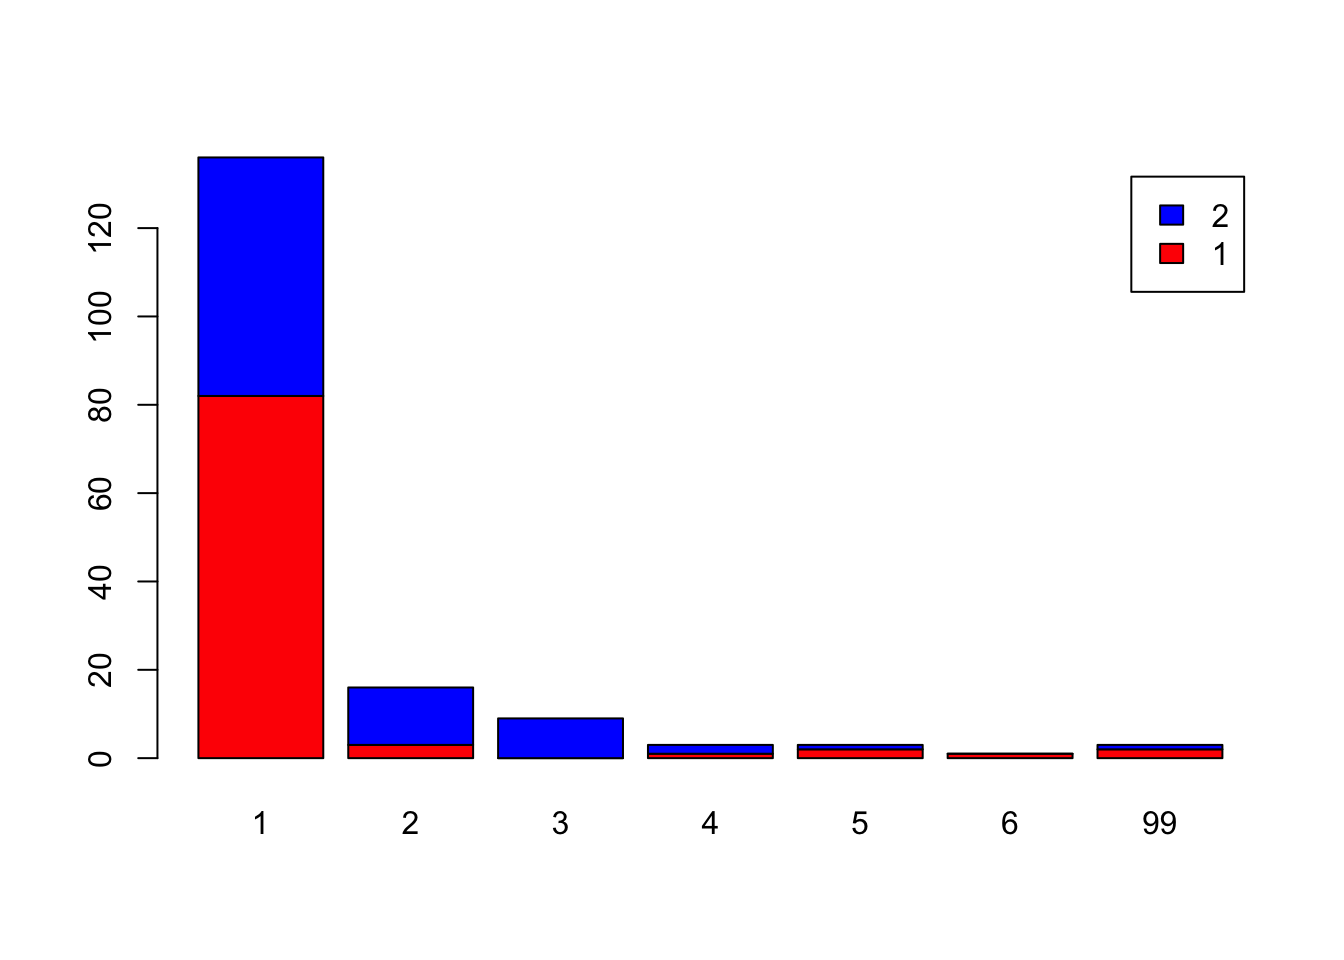
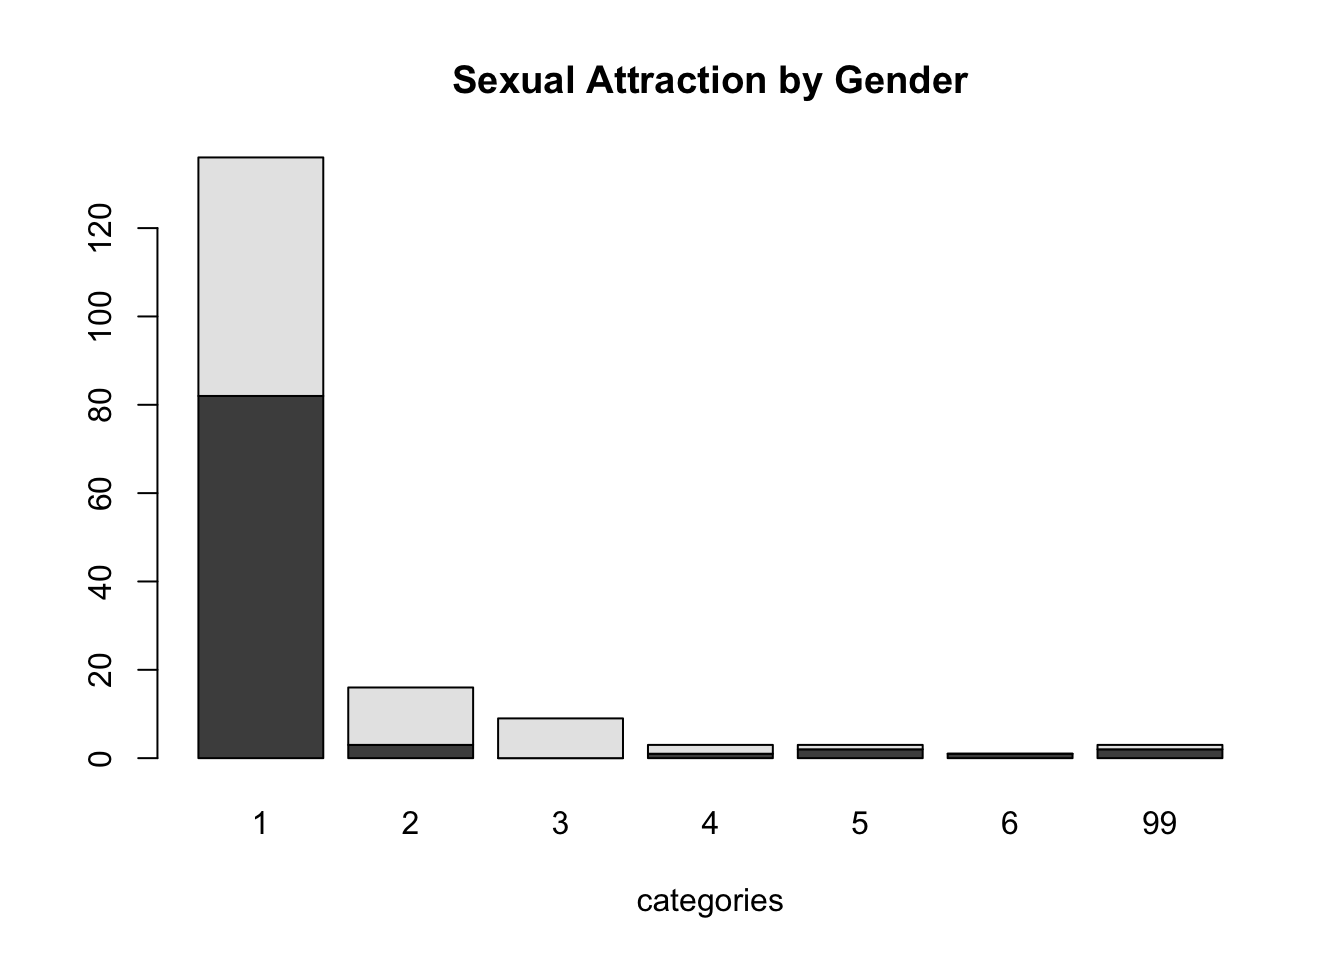
collaborators update

diff --git a/Assignments.html b/Assignments.html
@@ -344,7 +344,7 @@ div.tocify {
 
 <div id="assignment-1" class="section level1">
 <h1>Assignment 1</h1>
-<p><strong>Collaborators: Carolina Herrera Figueroa. </strong></p>
+<p><strong>Collaborators: Carolina Herrera Figueroa, Niko Amber</strong></p>
 <div id="problem-1" class="section level3">
 <h3>Problem 1</h3>
 <p>Install the datasets package on the console below and load the data</p>
@@ -470,7 +470,7 @@ barplot(USArrests$Rape, names.arg = state.names, las = 2, ylab = &quot;Arrest ra
 <p>What does the given code do? Explain what each line is doing.</p>
 <p>Answer: This code creates a heat map of murders in the US. That is, this is a map of the country with darker shades of blue signifying higher murder rates and lighter shades of blue portraying lower murder rates. The first line tells R that you will be making a heat map, arranging by state and filling with arrests for murder rates. The next line sets up the map itself separating by state and the final line expands the range</p>
 <p><span class="math display">\[\\[2in]\]</span> # Assignment 2</p>
-<p><strong>Collaborators: Carolina Herrera Figueroa. </strong></p>
+<p><strong>Collaborators: Carolina Herrera Figueroa, Niko Amber </strong></p>
 </div>
 <div id="problem-1-load-data" class="section level2">
 <h2>Problem 1: Load data</h2>
@@ -527,8 +527,10 @@ barplot(counts,main= &quot;Sexual Attraction&quot;, xlab=&quot;categories&quot;)
 <p>Answer: The distribution of sexual attraction is heavily weighted towards number 1 which indicated heterosexuality. I was not surprised by there being the greatest weight on heterosexuality, but I was slightly surprised quite how extreme the difference is.</p>
 <p>What is the distribution of sexual attraction by gender?</p>
 <pre class="r"><code>counts &lt;- table(dat$irsex, dat$sexatract)
-barplot(counts, col=c(&quot;red&quot;, &quot;blue&quot;), legend=TRUE)</code></pre>
+barplot(counts,main= &quot;Sexual Attraction by Gender&quot;, xlab=&quot;categories&quot;)</code></pre>
 <p><img src="Assignments_files/figure-html/unnamed-chunk-11-1.png" width="672" /></p>
+<pre class="r"><code>barplot(counts, col=c(&quot;red&quot;, &quot;blue&quot;), legend=TRUE)</code></pre>
+<p><img src="Assignments_files/figure-html/unnamed-chunk-11-2.png" width="672" /></p>
 <p>Answer: The distribution of sexual attraction by gender is intriguing to me because the first group (strongly heterosexual) appers mostly weighted towards males. The group showing bisexuality is heavily weighted towards females. The group identifying as homosexual is mostly male. The groups not knowing or leaving blank are all female and the group skipping the question is mostly male.</p>
 </div>
 <div id="problem-6-english-speaking" class="section level2">

diff --git a/docs/Assignments.html b/docs/Assignments.html
@@ -344,7 +344,7 @@ div.tocify {
 
 <div id="assignment-1" class="section level1">
 <h1>Assignment 1</h1>
-<p><strong>Collaborators: Carolina Herrera Figueroa. </strong></p>
+<p><strong>Collaborators: Carolina Herrera Figueroa, Niko Amber</strong></p>
 <div id="problem-1" class="section level3">
 <h3>Problem 1</h3>
 <p>Install the datasets package on the console below and load the data</p>
@@ -470,7 +470,7 @@ barplot(USArrests$Rape, names.arg = state.names, las = 2, ylab = &quot;Arrest ra
 <p>What does the given code do? Explain what each line is doing.</p>
 <p>Answer: This code creates a heat map of murders in the US. That is, this is a map of the country with darker shades of blue signifying higher murder rates and lighter shades of blue portraying lower murder rates. The first line tells R that you will be making a heat map, arranging by state and filling with arrests for murder rates. The next line sets up the map itself separating by state and the final line expands the range</p>
 <p><span class="math display">\[\\[2in]\]</span> # Assignment 2</p>
-<p><strong>Collaborators: Carolina Herrera Figueroa. </strong></p>
+<p><strong>Collaborators: Carolina Herrera Figueroa, Niko Amber </strong></p>
 </div>
 <div id="problem-1-load-data" class="section level2">
 <h2>Problem 1: Load data</h2>
@@ -527,8 +527,10 @@ barplot(counts,main= &quot;Sexual Attraction&quot;, xlab=&quot;categories&quot;)
 <p>Answer: The distribution of sexual attraction is heavily weighted towards number 1 which indicated heterosexuality. I was not surprised by there being the greatest weight on heterosexuality, but I was slightly surprised quite how extreme the difference is.</p>
 <p>What is the distribution of sexual attraction by gender?</p>
 <pre class="r"><code>counts &lt;- table(dat$irsex, dat$sexatract)
-barplot(counts, col=c(&quot;red&quot;, &quot;blue&quot;), legend=TRUE)</code></pre>
+barplot(counts,main= &quot;Sexual Attraction by Gender&quot;, xlab=&quot;categories&quot;)</code></pre>
 <p><img src="Assignments_files/figure-html/unnamed-chunk-11-1.png" width="672" /></p>
+<pre class="r"><code>barplot(counts, col=c(&quot;red&quot;, &quot;blue&quot;), legend=TRUE)</code></pre>
+<p><img src="Assignments_files/figure-html/unnamed-chunk-11-2.png" width="672" /></p>
 <p>Answer: The distribution of sexual attraction by gender is intriguing to me because the first group (strongly heterosexual) appers mostly weighted towards males. The group showing bisexuality is heavily weighted towards females. The group identifying as homosexual is mostly male. The groups not knowing or leaving blank are all female and the group skipping the question is mostly male.</p>
 </div>
 <div id="problem-6-english-speaking" class="section level2">

diff --git a/Assignments.tex b/Assignments.tex
@@ -113,7 +113,7 @@
 \hypertarget{assignment-1}{%
 \section{Assignment 1}\label{assignment-1}}
 
-\textbf{Collaborators: Carolina Herrera Figueroa. }
+\textbf{Collaborators: Carolina Herrera Figueroa, Niko Amber}
 
 \hypertarget{problem-1}{%
 \subsubsection{Problem 1}\label{problem-1}}
@@ -340,7 +340,7 @@ the map itself separating by state and the final line expands the range
 
 \[\\[2in]\] \# Assignment 2
 
-\textbf{Collaborators: Carolina Herrera Figueroa. }
+\textbf{Collaborators: Carolina Herrera Figueroa, Niko Amber }
 
 \hypertarget{problem-1-load-data}{%
 \subsection{Problem 1: Load data}\label{problem-1-load-data}}
@@ -499,11 +499,19 @@ What is the distribution of sexual attraction by gender?
 \begin{Shaded}
 \begin{Highlighting}[]
 \NormalTok{counts <-}\StringTok{ }\KeywordTok{table}\NormalTok{(dat}\OperatorTok{$}\NormalTok{irsex, dat}\OperatorTok{$}\NormalTok{sexatract)}
-\KeywordTok{barplot}\NormalTok{(counts, }\DataTypeTok{col=}\KeywordTok{c}\NormalTok{(}\StringTok{"red"}\NormalTok{, }\StringTok{"blue"}\NormalTok{), }\DataTypeTok{legend=}\OtherTok{TRUE}\NormalTok{)}
+\KeywordTok{barplot}\NormalTok{(counts,}\DataTypeTok{main=} \StringTok{"Sexual Attraction by Gender"}\NormalTok{, }\DataTypeTok{xlab=}\StringTok{"categories"}\NormalTok{)}
 \end{Highlighting}
 \end{Shaded}
 
 \includegraphics{Assignments_files/figure-latex/unnamed-chunk-11-1.pdf}
+
+\begin{Shaded}
+\begin{Highlighting}[]
+\KeywordTok{barplot}\NormalTok{(counts, }\DataTypeTok{col=}\KeywordTok{c}\NormalTok{(}\StringTok{"red"}\NormalTok{, }\StringTok{"blue"}\NormalTok{), }\DataTypeTok{legend=}\OtherTok{TRUE}\NormalTok{)}
+\end{Highlighting}
+\end{Shaded}
+
+\includegraphics{Assignments_files/figure-latex/unnamed-chunk-11-2.pdf}
 
 Answer: The distribution of sexual attraction by gender is intriguing to
 me because the first group (strongly heterosexual) appers mostly

diff --git a/docs/Assignments.tex b/docs/Assignments.tex
@@ -113,7 +113,7 @@
 \hypertarget{assignment-1}{%
 \section{Assignment 1}\label{assignment-1}}
 
-\textbf{Collaborators: Carolina Herrera Figueroa. }
+\textbf{Collaborators: Carolina Herrera Figueroa, Niko Amber}
 
 \hypertarget{problem-1}{%
 \subsubsection{Problem 1}\label{problem-1}}
@@ -340,7 +340,7 @@ the map itself separating by state and the final line expands the range
 
 \[\\[2in]\] \# Assignment 2
 
-\textbf{Collaborators: Carolina Herrera Figueroa. }
+\textbf{Collaborators: Carolina Herrera Figueroa, Niko Amber }
 
 \hypertarget{problem-1-load-data}{%
 \subsection{Problem 1: Load data}\label{problem-1-load-data}}
@@ -499,11 +499,19 @@ What is the distribution of sexual attraction by gender?
 \begin{Shaded}
 \begin{Highlighting}[]
 \NormalTok{counts <-}\StringTok{ }\KeywordTok{table}\NormalTok{(dat}\OperatorTok{$}\NormalTok{irsex, dat}\OperatorTok{$}\NormalTok{sexatract)}
-\KeywordTok{barplot}\NormalTok{(counts, }\DataTypeTok{col=}\KeywordTok{c}\NormalTok{(}\StringTok{"red"}\NormalTok{, }\StringTok{"blue"}\NormalTok{), }\DataTypeTok{legend=}\OtherTok{TRUE}\NormalTok{)}
+\KeywordTok{barplot}\NormalTok{(counts,}\DataTypeTok{main=} \StringTok{"Sexual Attraction by Gender"}\NormalTok{, }\DataTypeTok{xlab=}\StringTok{"categories"}\NormalTok{)}
 \end{Highlighting}
 \end{Shaded}
 
 \includegraphics{Assignments_files/figure-latex/unnamed-chunk-11-1.pdf}
+
+\begin{Shaded}
+\begin{Highlighting}[]
+\KeywordTok{barplot}\NormalTok{(counts, }\DataTypeTok{col=}\KeywordTok{c}\NormalTok{(}\StringTok{"red"}\NormalTok{, }\StringTok{"blue"}\NormalTok{), }\DataTypeTok{legend=}\OtherTok{TRUE}\NormalTok{)}
+\end{Highlighting}
+\end{Shaded}
+
+\includegraphics{Assignments_files/figure-latex/unnamed-chunk-11-2.pdf}
 
 Answer: The distribution of sexual attraction by gender is intriguing to
 me because the first group (strongly heterosexual) appers mostly
